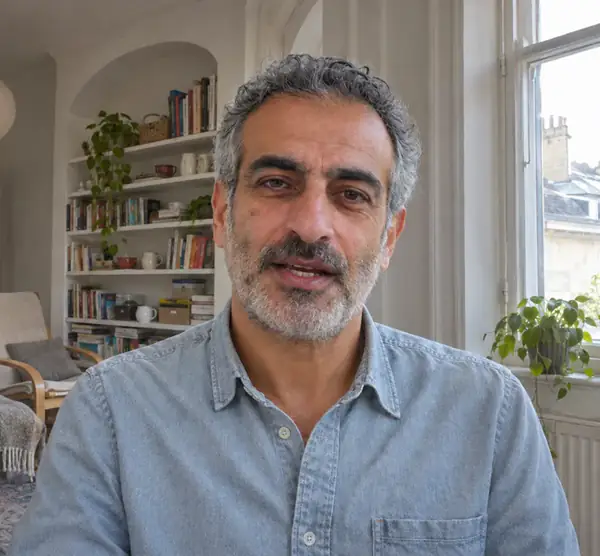
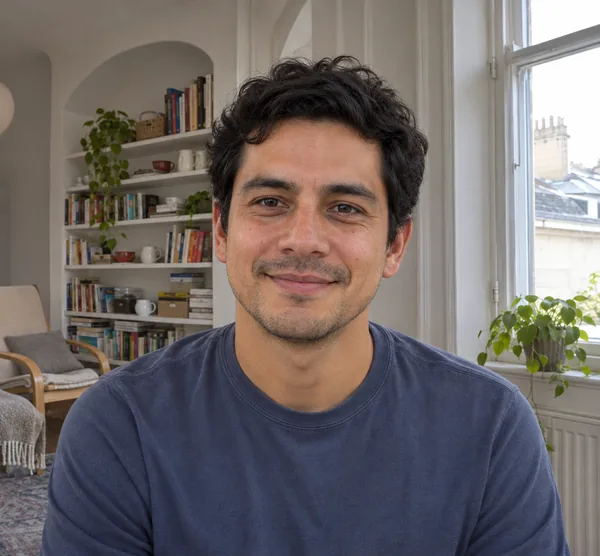
Onboarding: new people on the first screen's call, and the other caller, now Nina, is mid-sentence

diff --git a/app/src/renderer/src/components/OnboardingArt.tsx b/app/src/renderer/src/components/OnboardingArt.tsx
@@ -3,7 +3,7 @@ import type { PermissionKind } from '../../../shared/types'
 import { AppIcon, Logo } from './Logo'
 import { t } from '../../../shared/i18n'
 import { RecordingPill } from './RecordingPill'
-import rayPhoto from '../assets/onboarding/ray.webp'
+import ninaPhoto from '../assets/onboarding/nina.webp'
 import lincolnPhoto from '../assets/onboarding/lincoln.webp'
 import mayaPhoto from '../assets/onboarding/maya.webp'
 
@@ -16,15 +16,15 @@ import mayaPhoto from '../assets/onboarding/maya.webp'
 
 const d = (i: number) => ({ ['--i' as string]: i })
 
-const ray = { name: 'Ray', photo: rayPhoto, width: 600, height: 556 }
+const nina = { name: 'Nina', photo: ninaPhoto, width: 600, height: 556 }
 const maya = { name: 'Maya', photo: mayaPhoto, width: 308, height: 308 }
 
 function CallWindow({ welcome = false }: { welcome?: boolean }) {
   const you = { name: t('You'), photo: lincolnPhoto, width: 600, height: 556 }
-  const people = welcome ? [ray, you] : [ray, you, maya]
+  const people = welcome ? [nina, you] : [nina, you, maya]
   return <div className="ob-call">
     <div className="ob-call-grid">
-      {people.map(person => <div key={person.photo} className="ob-tile" data-talking={person === ray}>
+      {people.map(person => <div key={person.photo} className="ob-tile" data-talking={person === nina}>
         <img src={person.photo} width={person.width} height={person.height} alt="" />
         <span className="ob-tile-name">{person.name}</span>
       </div>)}
@@ -110,7 +110,7 @@ function NoticeArt() {
 /** Why Accessibility: the names the call shows, and the same lines turning from Them into those names */
 export function SpeakerNamesArt() {
   const lines: { who?: string; text: string }[] = [
-    { who: ray.name, text: t("I'll send a draft by Friday.") },
+    { who: nina.name, text: t("I'll send a draft by Friday.") },
     { text: t("I'll review it that afternoon.") },
     { who: maya.name, text: t('Then I can get the final copy ready for Tuesday.') },
   ]

diff --git a/app/e2e/onboarding.spec.ts b/app/e2e/onboarding.spec.ts
@@ -209,8 +209,8 @@ test('every permission step leads with what it gives, Allow asks the Mac, and Ac
     // the picture of why: You and Them becoming names
     await expect(page.getByTestId('speaker-names-art')).toContainText('Them')
     const art = page.getByTestId('speaker-names-art')
-    await expect(art.locator('.ob-tile-name')).toHaveText(['Ray', 'You', 'Maya'])
-    await expect(art.locator('.ob-swap-to')).toHaveText(['Ray', 'Maya'])
+    await expect(art.locator('.ob-tile-name')).toHaveText(['Nina', 'You', 'Maya'])
+    await expect(art.locator('.ob-swap-to')).toHaveText(['Nina', 'Maya'])
     await page.getByTestId('step-allow').click()
     // only System Settings turns it on: the pane opens, with where to click
     await expect(page.getByTestId('settings-guide')).toBeVisible()

diff --git a/app/e2e/approvedStudies.spec.ts b/app/e2e/approvedStudies.spec.ts
@@ -98,7 +98,7 @@ test('approved welcome conversation and wordmark belong to the introduction', as
         await expect(call.locator('img')).toHaveCount(2)
         await expect(call.getByTestId('widget-wave')).toBeVisible()
         await expect.poll(() => call.locator('img').evaluateAll(tiles => tiles.every(tile => tile instanceof HTMLImageElement && tile.complete && tile.naturalWidth > 0))).toBe(true)
-        await expect(call.locator('.ob-tile-name')).toHaveText(['Ray', 'You'])
+        await expect(call.locator('.ob-tile-name')).toHaveText(['Nina', 'You'])
         await expect(call.getByTestId('widget-time')).toHaveText('0:24')
         await expect(page.locator('.ob-conversation .ob-transcript')).toHaveCount(0)
         const activeTile = call.locator('[data-talking=true]')
